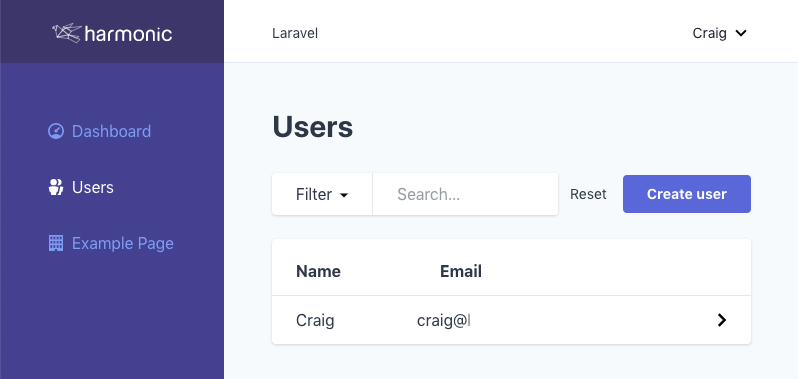
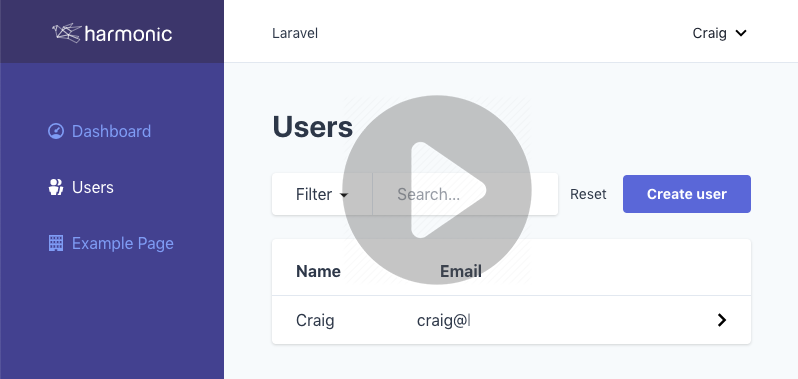
Added video to readme

Changed region(s): [[0.4211, 0.2322, 0.6917, 0.7546]]

diff --git a/src/Preset.php b/src/Preset.php
@@ -64,8 +64,9 @@ class Preset extends BasePreset {
         $this->command->info(' Harmonic Preset');
         $this->command->info('=================');
         $this->command->info('Before you run the preset please confirm you have:');
-        $this->command->info('✔ Set up and configured your database and URL in .env');
-        $this->command->info('✔ Run the intial Laravel migrations with php artisan migrate');
+        $this->command->info('✔  Set up and configured your database and URL in .env');
+        $this->command->info('✔  Run the intial Laravel migrations with php artisan migrate');
+        $this->command->info('✔  Have yarn installed globally');
         $this->command->confirm("Yes, I've done all this, lets get creating!", true);
 
         $this->options = $this->gatherOptions();

diff --git a/readme.md b/readme.md
@@ -5,7 +5,7 @@
 
 A Laravel preset that can create a basic Laravel install with some additional composer packages, Cypress for front end testing and an optional starting admin theme using InertiaJS and Tailwind CSS as a quick start.
 
-![Laravel Preset Screenshot](docs/laravel-preset-screenshot.png)
+[![Laravel Preset - Click for video](docs/laravel-preset-screenshot.png)](https://www.youtube.com/watch?v=K_d_RboHBbI&feature=youtu.be)
 
 ## Installation
 
